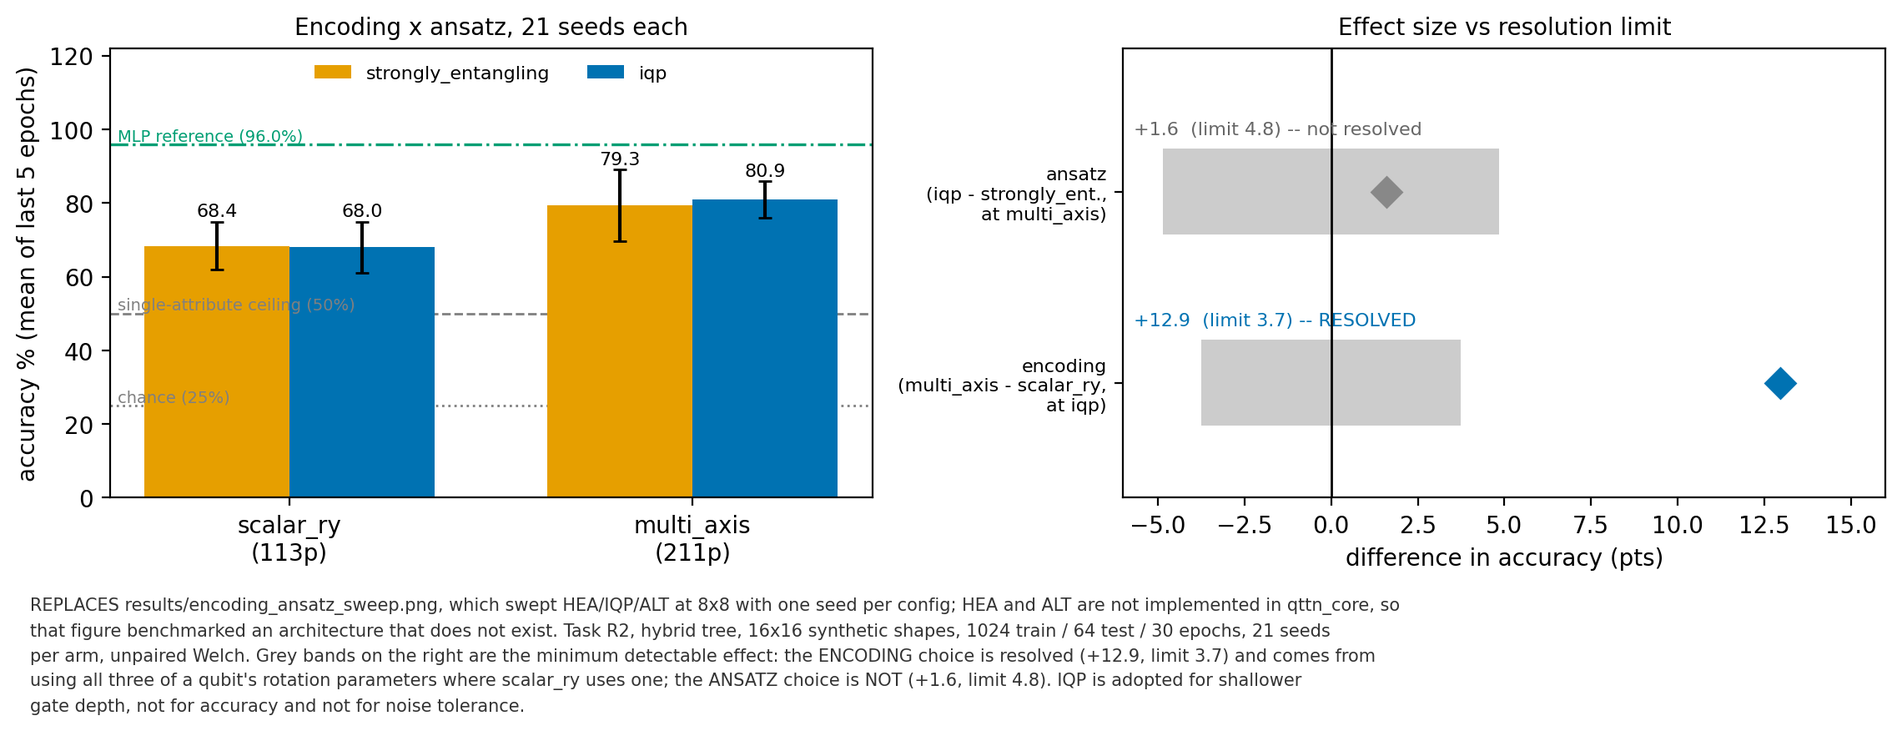
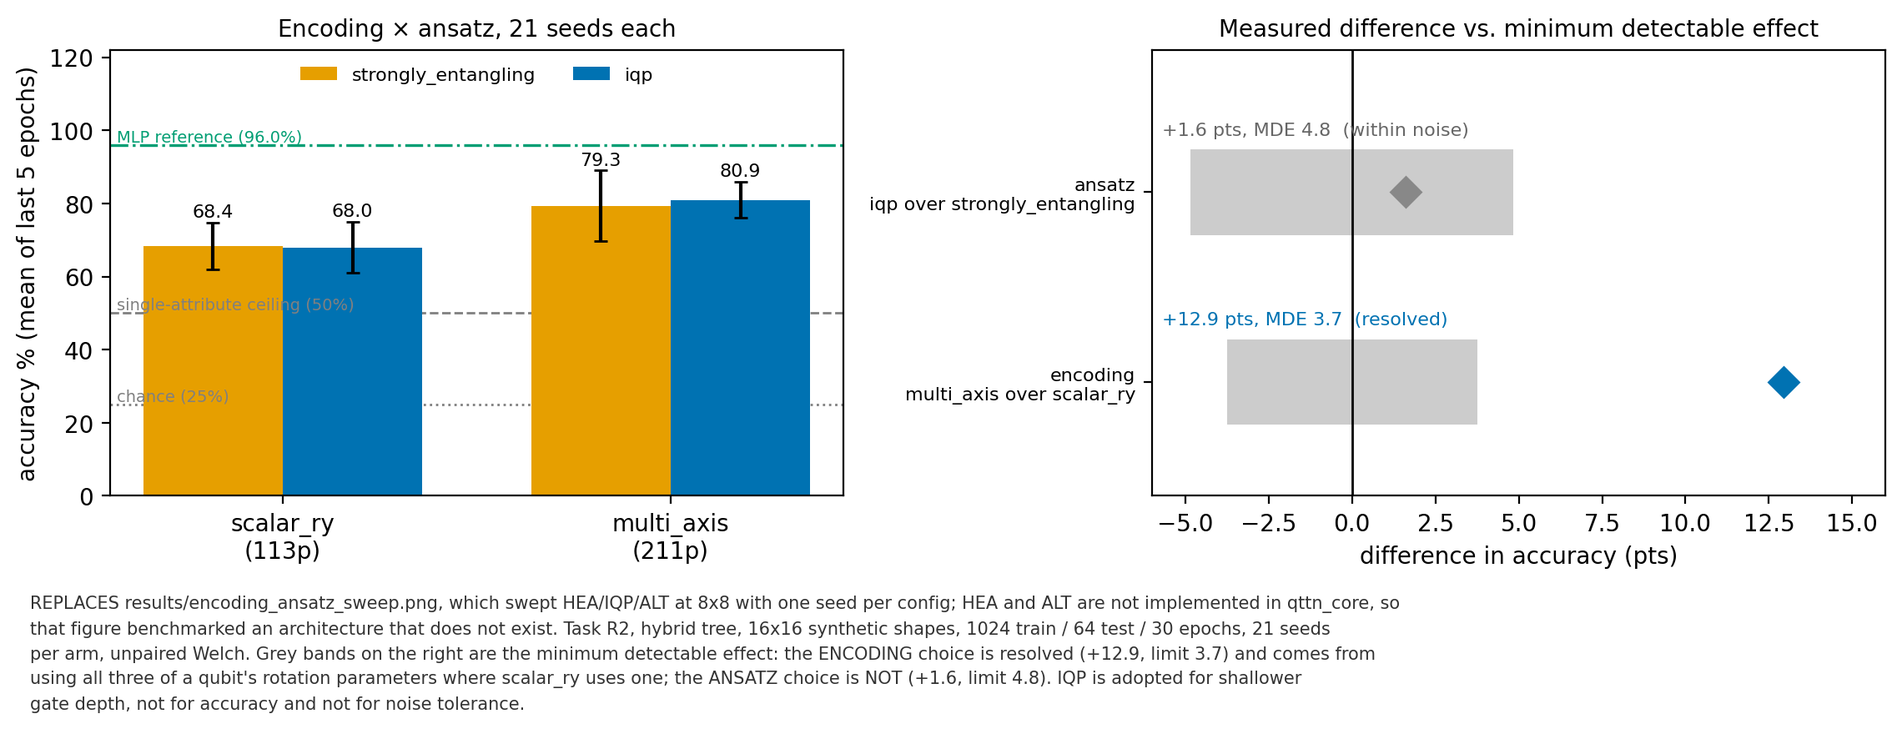
writeup

diff --git a/writeup/main.tex b/writeup/main.tex
@@ -405,7 +405,7 @@ The empirical results, shown in Figure \ref{fig:ablations_and_noise}, decisively
 \begin{figure}[hbt!]
     \centering
     \includegraphics[width=1.0\textwidth]{ch3/ablations_and_noise.png}
-    \caption{Node-level ablations (30 seeds) and noise degradation sweeps (15 seeds). The attempts to port classical mechanisms yielded either true null results (\texttt{reupload}) or actively harmed performance (\texttt{mixed\_channel}, \texttt{with\_ancilla}) while degrading noise resilience.}
+    \caption{Node-level ablations and depolarizing-noise sweeps, measured on the hybrid tree at single-node scale --- full-tree emulation of noise is infeasible at $\mathcal{O}(4^N)$. Attempts to port classical mechanisms yielded either a true null (\texttt{reupload}) or actively harmed performance (\texttt{mixed\_channel}, \texttt{with\_ancilla}) while degrading noise resilience. The ancilla result is measured on a translation-invariant task, where position barely affects the label, and does not generalise to relational settings; that case is tested separately in Chapter \ref{ch:clevr}.}
     \label{fig:ablations_and_noise}
 \end{figure}
 The \texttt{reupload} mechanism achieved a nominal $+1.5$ point increase over the baseline; however, this fell well below the statistical resolution limit ($\text{MDE} = 3.8$), yielding a true statistical null that failed to justify its additional gate depth. 
@@ -448,7 +448,7 @@ The results are given in Table \ref{tab:model_comparison} and Figure \ref{fig:mo
 \begin{figure}[hbt!]
     \centering
     \includegraphics[width=1.0\textwidth]{ch3/model_comparison.png}
-    \caption{Final parameter efficiency comparison. The 287-parameter coherent QTTN outperforms the structurally equivalent classical tensor network despite a strict parameter deficit, and ties the augmented classical tree that carries residual connections and dropout.}
+    \caption{Parameter efficiency on $16 \times 16$ synthetic shapes: accuracy by arm (left) and accuracy against parameter count on a logarithmic axis (right). The 287-parameter coherent QTTN outperforms the structurally equivalent classical tensor network despite a parameter deficit, and ties the augmented classical tree that carries residual connections and dropout. Dotted and dashed lines mark chance ($25\%$) and the single-attribute ceiling ($50\%$) respectively; error bars are one standard deviation across seeds.}
     \label{fig:model_comparison}
 \end{figure}
 
@@ -547,7 +547,7 @@ Accommodating these additional classification heads increased the parameter foot
 \begin{figure}[hbt!]
     \centering
     \includegraphics[width=0.9\textwidth]{ch3/clevr_attributes.png}
-    \caption{Attribute extraction performance. The multi-head readout forces the quantum architecture to simultaneously resolve all 15 classes from a single underlying statevector.}
+    \caption{Attribute extraction on $16 \times 16$ CLEVR object crops, reported per head and never averaged, at the 90-epoch budget. Dotted lines mark the majority-class floor for each head, which differs because the heads have different class counts. The multi-head readout forces the quantum architecture to resolve all 15 classes simultaneously from a single underlying statevector. Error bars are one standard deviation across seeds.}
     \label{fig:clevr_attributes}
 \end{figure}
 
@@ -588,7 +588,7 @@ While quantum training frequently collapsed to the chance floor, on the runs tha
 \begin{figure}[hbt!]
     \centering
     \includegraphics[width=1.0\textwidth]{ch3/clevr_relations.png}
-    \caption{Relational classification. Hatched bars report the runs that trained; solid quantum bars include collapsed runs. On the runs that train, the quantum tower is statistically tied with \texttt{classical\_bare}, its direct structural counterpart at a comparable parameter count.}
+    \caption{Four-way spatial relation classification (Left, Right, Front, Behind) on two-object CLEVR crops, against a $26.6\%$ majority-class floor. Hatched bars report the runs that trained; solid quantum bars include the runs that collapsed to chance. On the runs that train, the quantum tower is statistically tied with \texttt{classical\_bare}, its direct structural counterpart at a comparable parameter count. \texttt{quantum\_none} carries no positional parameters, position entering only through the fixed patch-to-wire assignment.}
     \label{fig:clevr_relations2}
 \end{figure}
 
@@ -621,6 +621,13 @@ Every classical architecture was evaluated against a patch-shuffled control. As 
     \caption{Compositional binding with class-conditional marginals equalised by construction. Every classical architecture falls to chance once patches are shuffled, so the task cannot be solved without binding an attribute to a position. Tensor networks bind; a 683-parameter MLP, smaller than any of them, binds slightly better. Quantum arms report the best seed and the count clearly above floor, since their distribution is bimodal and a mean would describe neither the capability nor the failure.}
     \label{tab:binding_results}
 \end{table}
+
+\begin{figure}[hbt!]
+    \centering
+    \includegraphics[width=1.0\textwidth]{ch3/clevr_binding.png}
+    \caption{Compositional binding, with the classical arms shown against their patch-shuffled controls (hatched) and the quantum arms shown per seed. The shuffle control collapses every classical architecture to the chance line, confirming that the task cannot be solved without binding an attribute to a position. The quantum arms are plotted as individual seeds rather than as a mean because their distribution is bimodal: a minority of initialisations separate the arrangements clearly while the remainder sit at the floor, so a mean would describe neither outcome.}
+    \label{fig:clevr_binding_results}
+\end{figure}
 
 Interestingly, the 725-parameter \texttt{quantum\_none} architecture carries zero explicit positional parameters; position enters the quantum statevector solely via the fixed mapping of image patches to data wires. Despite this, the network successfully resolves the binding probe using only its topology, putting 5 of its 15 seeds more than 3 binomial standard deviations above the chance floor, peaking at 69.0\% ($8.1$ s.d.). Furthermore, explicitly injecting coordinate embeddings into the tree (\texttt{quantum\_on\_wire}) yields no statistically resolvable improvement over the implicit topology: comparing the two arms on their full distributions rather than their best runs, the gap is $-0.6$ points against an MDE of $5.5$, with both arms carrying signal. This is a bounded null rather than an absence of evidence, and it supports our previous results pointing towards the omission of explicit positional data from the quantum node.
 It should be noted that the quantum models still suffer from model collapse with the majority of quantum seeds collapsing to chance. 
@@ -776,13 +783,22 @@ rejected on positive evidence rather than dismissed on principle.
 
 \subsection{The Quantum Node}
 
-The unitarity constraint is not a handicap. Under matched conditions the
-quantum tree node outperforms its unconstrained classical counterpart while
-using roughly a third fewer parameters, and this parameter efficiency
-reproduces on real data rather than holding only on synthetic benchmarks. A
-secondary observation concerns multi-head training: extending the optimisation
-budget causes attribute heads sharing a single loss to trade against one
-another rather than improve together.
+The unitarity constraint is not a handicap. On synthetic shapes, under matched
+constraints, the quantum tree node outperforms its unconstrained classical
+counterpart by a resolved margin while using a third fewer parameters, and it
+ties the strongest classical tensor network in the study --- one that needs
+both residual connections and dropout to get there, mechanisms the quantum node
+was separately shown to be harmed by.
+
+That result is weaker but not absent on real data. On CLEVR the quantum tower
+holds an eighteen per cent parameter deficit to the same classical counterpart
+and wins one of four attribute heads by a resolved margin, tying on the other
+three. What transfers, then, is that the unitary node is not \emph{worse} at
+matched or lower capacity; the stronger synthetic claim, that it is
+consistently better, does not. A secondary observation concerns multi-head
+training: extending the optimisation budget causes attribute heads sharing a
+single loss to trade against one another rather than improve together, so no
+single budget is optimal for all of them.
 
 \subsection{Compositional Structure}
 
@@ -794,16 +810,29 @@ above-chance score provably requires binding an attribute to a position, the
 quantum tower separates the arrangements at many standard deviations above
 chance. It does so in the variant carrying no positional parameters whatsoever,
 with position entering only through the fixed assignment of image patches to
-qubit wires. The tree's topology is therefore sufficient on its own:
-compositional structure is captured by the architecture rather than supplied to
-it, and adding an explicit positional mechanism changes nothing measurable.
+qubit wires. At this scale the tree's topology is therefore sufficient on its
+own: compositional structure is captured by the architecture rather than
+supplied to it, and adding an explicit positional mechanism changes nothing
+measurable.
 
-Two boundaries belong with that result. The quantum tower reaches this solution
-in a minority of initialisations, so what is established is capability rather
-than reliability; and on the same probe a plain neural network of comparable
-size binds equally well, so the finding is that the quantum-native route
-\emph{works}, not that hierarchical contraction is the only architecture that
-can. Both possibilities were registered in advance of the measurement.
+Three boundaries belong with that result. The quantum tower reaches this
+solution in a minority of initialisations, so what is established is capability
+rather than reliability; and on the same probe a plain neural network of
+comparable size binds equally well, so the finding is that the quantum-native
+route \emph{works}, not that hierarchical contraction is the only architecture
+that can. Both possibilities were registered in advance of the measurement.
+
+The third is a matter of scale, and it is why the scaled tower of Chapter
+\ref{ch:aro} does not inherit the conclusion. The sufficiency of implicit
+position was measured on a depth-two tree over sixteen patches. The
+vision--language tower contracts four levels over 256, where a patch's
+identity must survive twice as many contractions and be distinguished from
+sixteen times as many alternatives, and it carries an explicit gated positional
+embedding accordingly. That is a deliberate departure rather than an
+inconsistency --- what Chapter \ref{ch:clevr} established is a bounded null at
+one depth, not a general claim that explicit position is unnecessary --- but
+the depth at which the implicit signal ceases to suffice was not measured, and
+locating it is the obvious extension of that ablation.
 
 \subsection{From Viability to a Vision--Language Model}
 
@@ -812,8 +841,11 @@ directly in the metric it uses at inference, a frozen CLIP encoder responds an
 order of magnitude more strongly to which objects are present than to how they
 are arranged, on images that a very small model separates almost perfectly.
 Replacing that encoder with a tensor-network tower, while holding the language
-model fixed, improves compositional performance on both ARO tasks and surpasses
-a far larger foundation model on relational reasoning.
+model fixed, improves compositional performance on both ARO tasks, and the
+resulting model exceeds a far larger foundation model on relational reasoning
+--- though that last comparison sets a small task-adapted model against a
+zero-shot general-purpose one, and indicates what such a model can reach rather
+than ranking the two architectures.
 
 Taken together these results support the wider programme. The tensor-network
 vision tower demonstrably improves compositional performance in a full
@@ -826,12 +858,16 @@ pipeline.
 
 \subsection{Limitations}
 
-The scale at which these claims hold is narrow. A single small image size at
-shallow depth is the only configuration trained end to end, and every noise
-result characterises an individual tree node rather than the assembled tower.
-Both are consequences of classical simulation cost rather than of the
-architecture, and both, along with the training instability noted above,
-are addressed in the future work that follows.
+The scale at which the \emph{quantum} claims hold is narrow. A single small
+image size at depth two is the only coherent configuration trained end to end,
+and every noise result characterises an individual tree node rather than the
+assembled tower. The classical tower scales considerably further --- four
+levels over 256 patches in the vision--language setting --- but that is
+precisely the asymmetry: everything the quantum node was shown to do, it was
+shown to do at sixteen qubits. Both limits are consequences of classical
+simulation cost rather than of the architecture, and both, along with the
+training instability noted above, are addressed in the future work that
+follows.
 
 
 \section{Future Work}
@@ -861,8 +897,11 @@ roughly eight. Recycling therefore converts tree depth from an unreachable
 regime into a question of latency and gate error.
 
 That in turn unlocks \textbf{training at greater depth}, the project's narrowest
-constraint: one small image size at depth two is the only configuration trained
-end to end. Forward passes already run at depth three and four on a
+constraint: one small image size at depth two is the only \emph{coherent}
+configuration trained end to end, against the four levels the classical tower
+reaches in Chapter \ref{ch:aro}. Closing that gap is what would let the quantum
+node be evaluated on the task the architecture was built for. Forward passes
+already run at depth three and four on a
 tensor-network simulator, but that device provides no backpropagation, and
 gradients by parameter shift cost close to a minute per step. Parameter shift is
 the native gradient method on hardware, so the very procedure that makes deeper

diff --git a/qnlp/image_tower/classification/quantum/make_figures.py b/qnlp/image_tower/classification/quantum/make_figures.py
@@ -34,6 +34,8 @@ import matplotlib.pyplot as plt
 from qnlp.image_tower.classification.quantum import phase15_common as pc
 
 FIGDIR = os.path.join(pc.RESULTS_DIR, "figures")
+# Caption-free copies for the write-up; see _save().
+THESIS_FIGDIR = os.path.join(FIGDIR, "thesis")
 CHANCE, SHORTCUT_CEILING = 25.0, 50.0
 
 # Colourblind-safe, consistent across every figure.
@@ -81,14 +83,27 @@ def _reference_lines(ax, mlp=None, show_ceiling=True):
 
 
 def _save(fig, name, caption, wrap=150):
-    """Lay the caption out beneath the axes rather than on top of them.
+    """Write each figure twice: once annotated, once clean.
 
-    tight_layout is applied first, then space is reserved proportional to the
-    wrapped caption's line count, so captions never collide with axis labels.
+    The captions in this module are written for the research record -- they name
+    tasks and questions by their internal IDs, flag what a figure may NOT be
+    cited for, and shout the caveats in capitals. That is the right voice for a
+    lab notebook and the wrong one for a thesis, where LaTeX supplies the caption
+    and a second caption baked into the image is both duplicative and off-key.
+
+    So: `figures/` keeps the annotated version, and `figures/thesis/` gets the
+    same axes with no caption block. The thesis copies are the ones to import
+    into the write-up. Nothing is lost -- the provenance the annotated captions
+    carry is still generated, just not shipped into the document.
     """
     os.makedirs(FIGDIR, exist_ok=True)
-    lines = textwrap.wrap(" ".join(caption.split()), wrap)
+    os.makedirs(THESIS_FIGDIR, exist_ok=True)
     fig.tight_layout()
+
+    # Clean copy first, before any caption text is attached to the figure.
+    fig.savefig(os.path.join(THESIS_FIGDIR, name), dpi=200, bbox_inches="tight")
+
+    lines = textwrap.wrap(" ".join(caption.split()), wrap)
     line_h = 0.030
     fig.subplots_adjust(bottom=0.16 + line_h * len(lines))
     # va="bottom" anchors the block's bottom edge, so multi-line captions grow
@@ -96,7 +111,7 @@ def _save(fig, name, caption, wrap=150):
     fig.text(0.02, 0.015, "\n".join(lines), fontsize=7.5, color="#333333", va="bottom", linespacing=1.6)
     fig.savefig(os.path.join(FIGDIR, name), dpi=200, bbox_inches="tight")
     plt.close(fig)
-    print(f"  wrote {name}  ({len(lines)} caption lines)")
+    print(f"  wrote {name}  (annotated + clean; {len(lines)} caption lines)")
 
 
 def coherent_baseline():
@@ -180,7 +195,7 @@ def fig_model_comparison():
     ax2.set_ylabel("accuracy %")
     ax2.set_title("Accuracy per parameter", fontsize=10)
     _reference_lines(ax2, show_ceiling=False)
-    fig.suptitle("Quantum image tower vs. classical controls, 16x16 synthetic shapes", fontsize=12, y=0.98)
+    fig.suptitle("Quantum image tower vs. classical controls, $16 \\times 16$ synthetic shapes", fontsize=12, y=0.98)
     _save(
         fig,
         "model_comparison.png",
@@ -240,7 +255,7 @@ def fig_readout():
     """The R7 readout finding: why the bond width is the binding constraint."""
     fig, ax = plt.subplots(figsize=(6.2, 4.2))
     labels = [
-        "scalar\n(1 value,\nroot <Z>)",
+        "scalar\n(1 value,\nroot $\\langle Z \\rangle$)",
         "root_multi_pauli\n(3 values,\nroot Bloch vector)",
         "top_layer_qubits\n(4 values,\ntop-layer wires)",
     ]
@@ -251,7 +266,7 @@ def fig_readout():
     ax.set_ylabel("accuracy %")
     ax.set_ylim(0, 100)
     _reference_lines(ax)
-    ax.set_title("Readout width is the binding constraint (coherent tree)", fontsize=10)
+    ax.set_title("Readout width limits the coherent tree", fontsize=10)
     _save(
         fig,
         "readout_bottleneck.png",
@@ -399,17 +414,17 @@ def fig_encoding_ansatz():
     ax1.set_ylabel("accuracy % (mean of last 5 epochs)")
     ax1.set_ylim(0, 122)
     ax1.legend(fontsize=8, loc="upper center", ncol=2, frameon=False)
-    ax1.set_title("Encoding x ansatz, 21 seeds each", fontsize=10)
+    ax1.set_title("Encoding $\\times$ ansatz, 21 seeds each", fontsize=10)
     _reference_lines(ax1, mlp=mlp["mlp_reference"]["score_mean"] if mlp else None)
 
     # Effect sizes against their resolution limits -- the point of the figure.
     cmps = [
         (
-            "encoding\n(multi_axis - scalar_ry,\nat iqp)",
+            "encoding\nmulti_axis over scalar_ry",
             pc.compare(arms[("scalar_ry", "iqp")], arms[("multi_axis", "iqp")]),
         ),
         (
-            "ansatz\n(iqp - strongly_ent.,\nat multi_axis)",
+            "ansatz\niqp over strongly_entangling",
             pc.compare(arms[("multi_axis", "strongly_entangling")], arms[("multi_axis", "iqp")]),
         ),
     ]
@@ -420,7 +435,7 @@ def fig_encoding_ansatz():
         ax2.plot([c["difference"]], [y], "D", ms=9, color="#0072B2" if c["resolved"] else "#888888", zorder=3)
         # Left-aligned at a fixed x so long labels can never overflow the axis.
         ax2.annotate(
-            f"{c['difference']:+.1f}  (limit {m:.1f}) -- {'RESOLVED' if c['resolved'] else 'not resolved'}",
+            f"{c['difference']:+.1f} pts, MDE {m:.1f}" + ("  (resolved)" if c["resolved"] else "  (within noise)"),
             (-5.7, y + 0.30),
             ha="left",
             fontsize=8,
@@ -432,7 +447,7 @@ def fig_encoding_ansatz():
     ax2.set_xlabel("difference in accuracy (pts)")
     ax2.set_xlim(-6, 16)
     ax2.set_ylim(-0.6, len(cmps) - 0.25)
-    ax2.set_title("Effect size vs resolution limit", fontsize=10)
+    ax2.set_title("Measured difference vs. minimum detectable effect", fontsize=10)
 
     _save(
         fig,
@@ -475,7 +490,7 @@ def fig_ansatz_comparison():
     ax1.set_ylabel("validation accuracy %")
     ax1.set_ylim(0, 100)
     ax1.legend(fontsize=8, loc="lower right")
-    ax1.set_title("multi_axis encoding, mean +/- 1 s.d. over 21 seeds", fontsize=10)
+    ax1.set_title("multi_axis encoding, mean $\\pm$ 1 s.d. over 21 seeds", fontsize=10)
     _reference_lines(ax1)
 
     for k, ansatz in enumerate(("strongly_entangling", "iqp")):
@@ -491,7 +506,8 @@ def fig_ansatz_comparison():
     ax2.set_ylabel("accuracy % (mean of last 5 epochs)")
     ax2.set_ylim(0, 100)
     ax2.set_title(
-        f"Per-seed spread: {cmp_['difference']:+.1f} pts, limit {cmp_['min_detectable_effect']:.1f} -> NOT RESOLVED",
+        f"Per-seed spread: {cmp_['difference']:+.1f} pts against an MDE of "
+        f"{cmp_['min_detectable_effect']:.1f}, within noise",
         fontsize=10,
     )
     _reference_lines(ax2, show_ceiling=True)
@@ -622,7 +638,9 @@ def fig_clevr_attributes():
         ax.set_xticklabels([f"{SHORT[a]}\n{params[a]}p" for a in arms], fontsize=7.5)
         ax.set_ylim(0, 105)
     axes[0].set_ylabel("accuracy % (mean of last 5 epochs)")
-    fig.suptitle("CLEVR single-object attribute classification, 16x16 object crops, 90 epochs", fontsize=12, y=0.99)
+    fig.suptitle(
+        "CLEVR single-object attribute classification, $16 \\times 16$ object crops, 90 epochs", fontsize=12, y=0.99
+    )
     _save(
         fig,
         "clevr_attributes.png",
@@ -722,7 +740,7 @@ def fig_clevr_relations():
     ax2.set_xlabel("seeds (of 10)")
     ax2.set_xlim(0, 10)
     ax2.legend(fontsize=7.5, loc="lower right")
-    ax2.set_title("Training frequently collapses", fontsize=10)
+    ax2.set_title("Seeds reaching above the majority floor", fontsize=10)
 
     _save(
         fig,
@@ -860,6 +878,7 @@ def main():
         "topology_barren_plateaus, entropy_vs_tree_depth, entropy_propagation_vs_noise -- these\n"
         "involve no classifier head and are unaffected. topology_noise_resilience is RETIRED."
     )
+    print(f"\nAnnotated (research record): {FIGDIR}\nClean (import these into the write-up): {THESIS_FIGDIR}")
 
 
 if __name__ == "__main__":

diff --git a/writeup/THESIS_CORRECTIONS.md b/writeup/THESIS_CORRECTIONS.md
@@ -97,8 +97,8 @@ from `CPQuadRankLayer`, so the CP continuity claim with Chs. 4–5 holds. Five t
 
 | # | Line | Type | Status | Issue | Fix |
 |---|---|---|---|---|---|
-| 42 | 731–734 | **O** | TODO | "outperforms its unconstrained classical counterpart while using roughly a third fewer parameters, and this parameter efficiency **reproduces on real data**." On synthetic it is 33% fewer and +9.7 resolved; on CLEVR it is **18%** fewer and one resolved head of four. | Qualify. |
-| 43 | 747–751 | **C** | TODO | "It does so in the variant carrying no positional parameters whatsoever … adding an explicit positional mechanism changes nothing measurable." True of the quantum tower, false of the ARO tower (#32), two subsections apart. | Reconcile explicitly. |
+| 42 | 731–734 | **O** | DONE | "outperforms its unconstrained classical counterpart while using roughly a third fewer parameters, and this parameter efficiency **reproduces on real data**." On synthetic it is 33% fewer and +9.7 resolved; on CLEVR it is **18%** fewer and one resolved head of four. | Split into synthetic and CLEVR claims: a resolved win at a third fewer parameters on synthetic (plus the classical_full tie), against an 18%% deficit and one resolved head of four on CLEVR. What transfers is now stated as "not worse at matched or lower capacity" rather than "consistently better". |
+| 43 | 747–751 | **C** | DONE | "It does so in the variant carrying no positional parameters whatsoever … adding an explicit positional mechanism changes nothing measurable." True of the quantum tower, false of the ARO tower (#32), two subsections apart. | Added a third boundary: implicit position was measured on a depth-two 16-patch tree, and the scaled tower of Ch. 6 contracts four levels over 256 patches and carries an explicit gated embedding. Framed as a deliberate departure at a different scale, with the depth at which implicit position stops sufficing named as unmeasured. |
 
 ---
 
@@ -128,6 +128,9 @@ survives and is independently resolved by R2 on the full tree, which is what eve
 architecture decision rests on. What changed is that the ansatz was never resolvable on
 accuracy at either scale — so IQP is now justified on parameter count (8 vs 12 per node),
 gate depth and training stability, which is what the code comments recorded all along.
+
+| 50 | 859, 893 | **C** | DONE | Ch. 7 was written against the pre-correction Ch. 6 and says "a single small image size at shallow depth is the only configuration trained end to end". Once Ch. 6 correctly describes a depth-four, 256-patch tower that *is* trained end to end, the claim is false as stated — it is true only of the **coherent quantum** configuration. | Both passages now scope the limit to the coherent tower and name the classical tower's four levels explicitly, turning a stale claim into the asymmetry that motivates the future work. |
+| 51 | 823 | **O** | DONE | §7.1.4's "surpasses a far larger foundation model on relational reasoning" repeats the zero-shot-vs-trained issue corrected in Ch. 6 (#38). | Qualified in one clause: a small task-adapted model against a zero-shot general-purpose one, indicating what such a model can reach rather than ranking architectures. |
 
 ---
 
